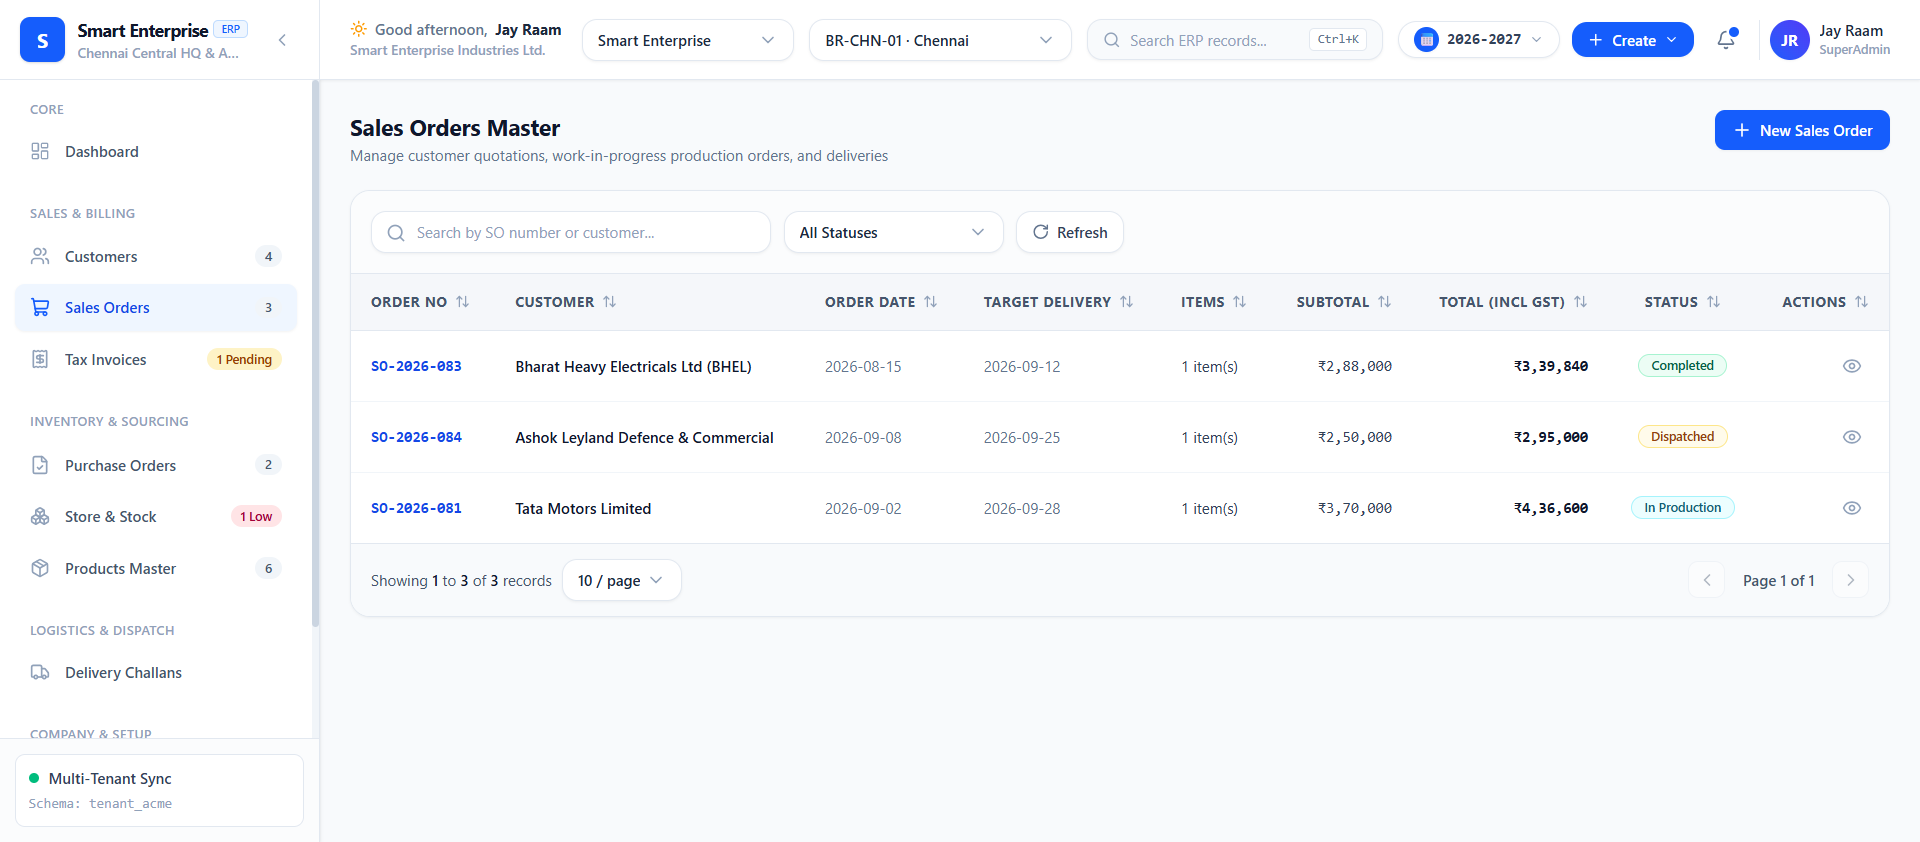
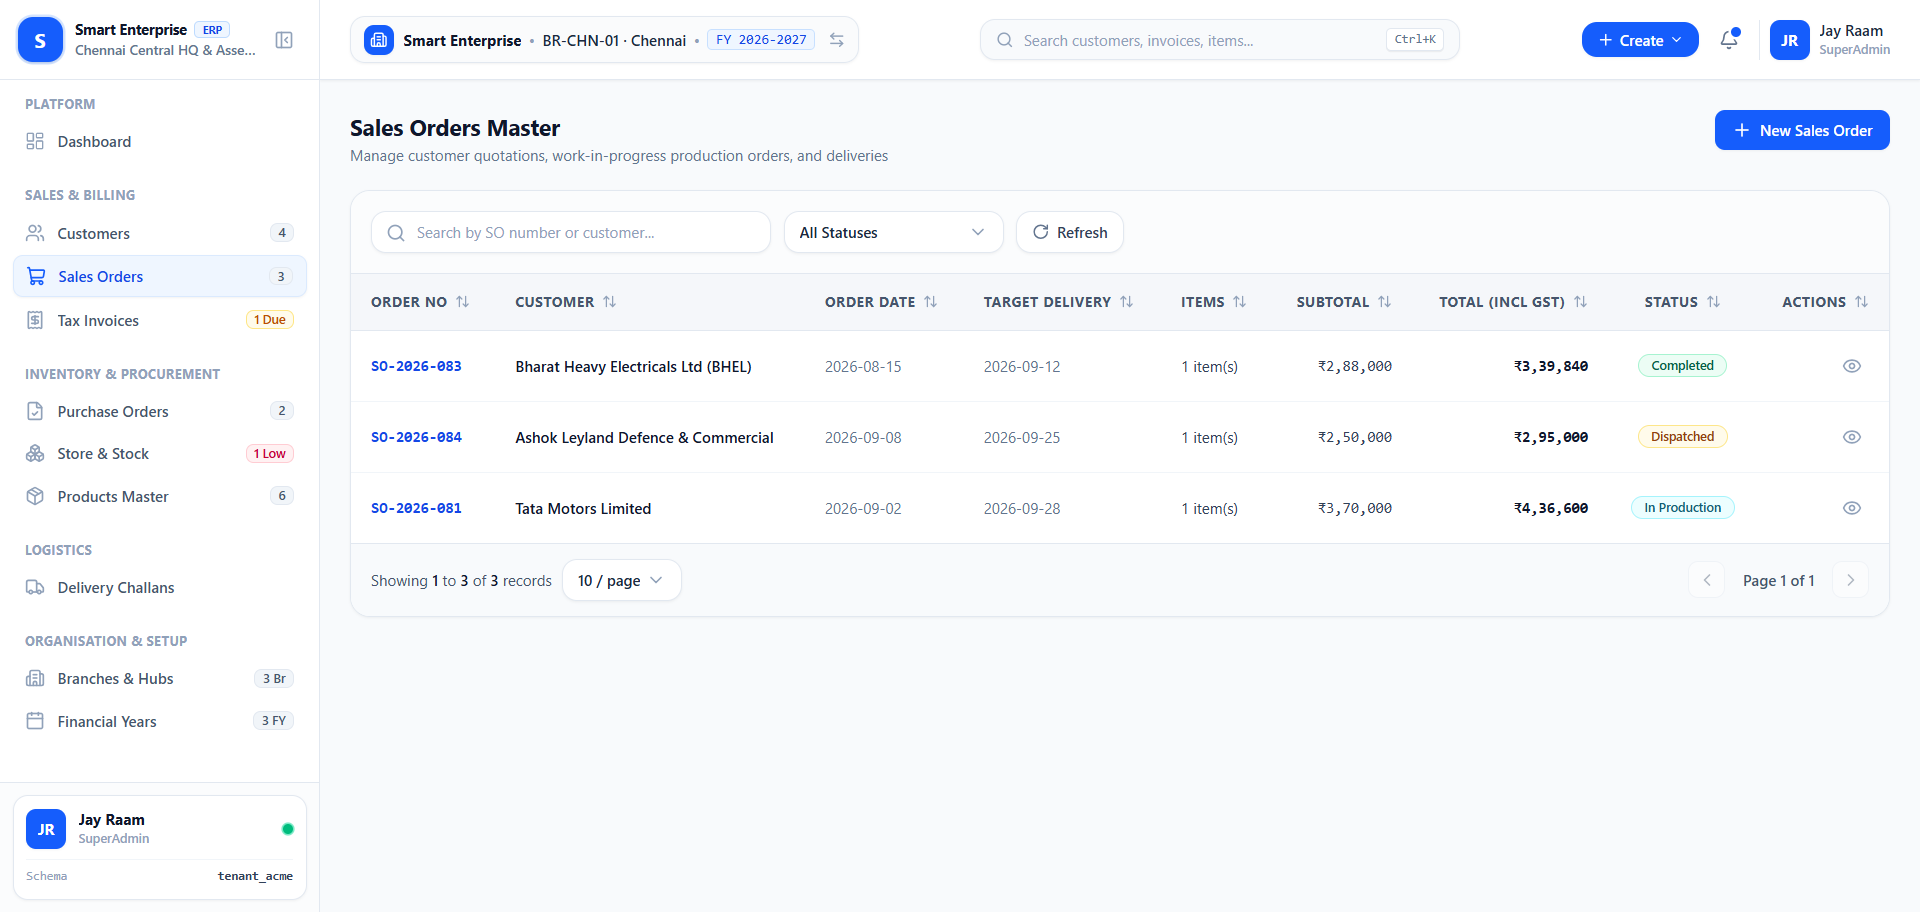
Update screenshots and documentation with clean header and context switcher drawer

diff --git a/README.md b/README.md
@@ -74,12 +74,12 @@ The dedicated Financial Year Master module provides comprehensive accounting per
 
 ---
 
-### 6. Dual Combobox Switchers & Financial Year Switcher Pill
-- **Organisation Combobox**: Switch enterprise tenant organizations.
-- **Branch Combobox**: Filtered strictly to branches permitted by the authenticated user's assigned roles (`user.roles`).
-- **Financial Year Switcher (`📅 2026-2027`)**: Top-bar calendar pill with an animated dropdown menu to switch accounting periods with a single click.
+### 6. Clean Header & Workspace Context Switcher Drawer
+- **Clean Responsive Header**: Streamlined navigation bar with zero layout crowding, featuring an interactive context pill (`🏢 Smart Enterprise • BR-CHN-01 · Chennai • FY 2026-2027 ⇄`), global search shortcut (`Ctrl+K`), quick create dropdown, and notification telemetry.
+- **Tenant & Workspace Switcher Drawer**: Clicking the header pill opens an elegant slide-over drawer allowing operators to switch Tenant Organisation, Operational Branch (scoped to authorized roles), and Financial Fiscal Year.
+- **Draft Selection & "Apply & Switch Context"**: Interactive card selection with draft state tracking and an explicit **"Apply & Switch Context"** action button that dynamically persists preferences to client storage (`localStorage`) and refreshes scoped MongoDB records.
 
-![Header Switchers & FY Dropdown](docs/images/06_header_switchers_dropdown.png)
+![Clean Header & Workspace Context Switcher Drawer](docs/images/06_header_switchers_dropdown.png)
 
 ---
 
@@ -95,8 +95,8 @@ Modern slide-over notification hub providing live multi-branch telemetry, catego
 ```mermaid
 flowchart LR
     subgraph Client ["Client Browser (React 19)"]
-        UI_Switchers["Dual Switchers (Org & Branch)"]
-        UI_FY["📅 FY Switcher Pill"]
+        UI_Switchers["Context Switcher Drawer (Org, Branch, FY)"]
+        UI_Header["Clean Header Context Pill"]
         UI_URL["URL Query State (?per_page=10...)"]
         CookieWatchdog["Cookie Watchdog (authToken)"]
     end
